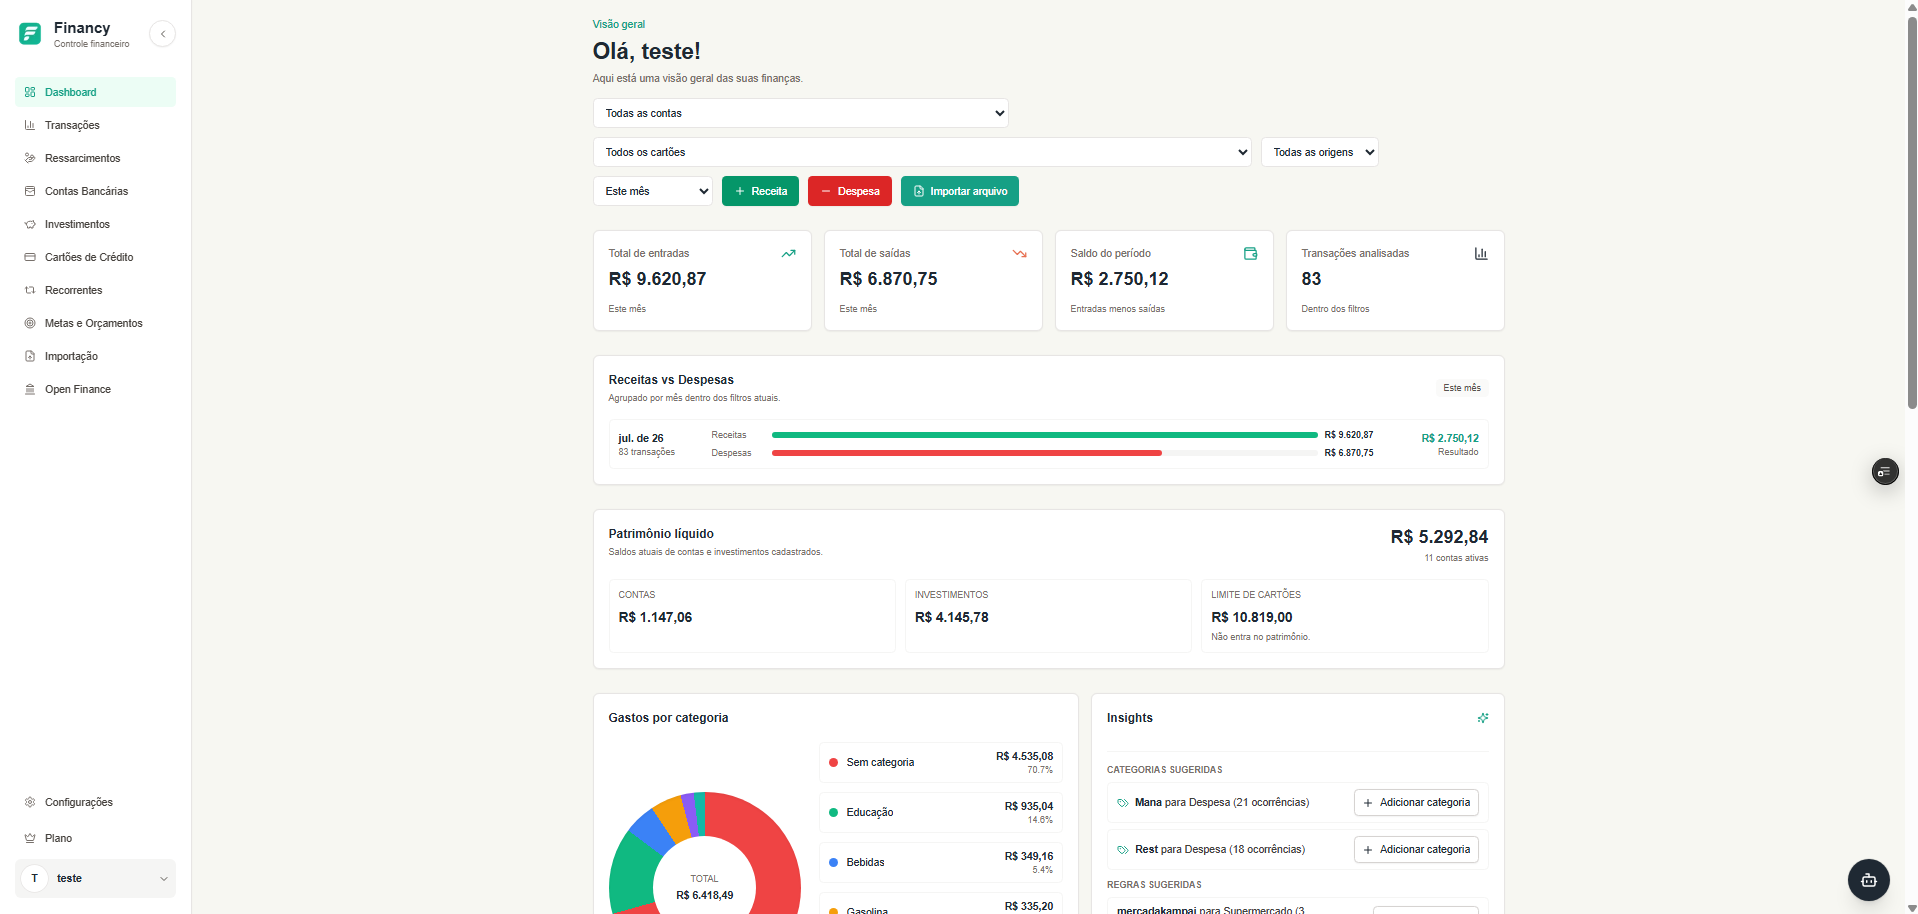
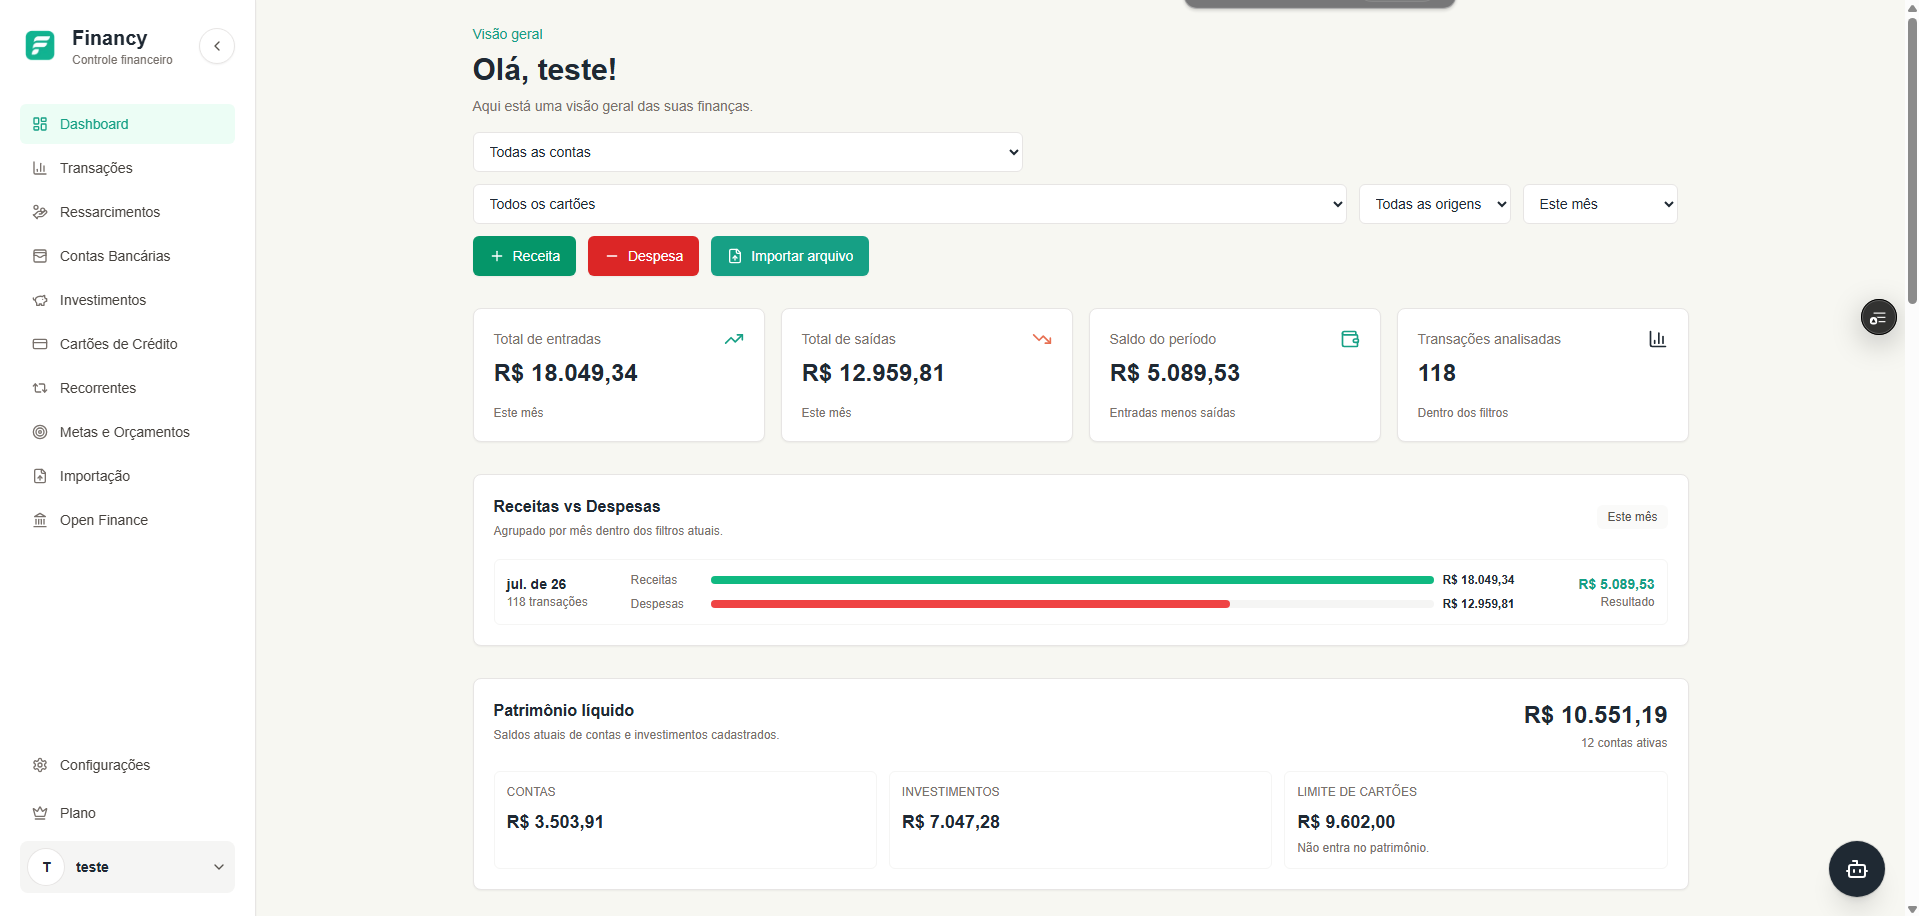
fix: refine featured project gallery

diff --git a/src/main.jsx b/src/main.jsx
@@ -50,9 +50,7 @@ const content = {
     printopsDiscoveryAlt: 'Tela de descoberta de impressoras com varredura SNMP em andamento',
     printopsAddPrinterAlt: 'Formulário de cadastro de uma nova impressora no PrintOps',
     financy: 'Plataforma SaaS para organização financeira pessoal, com transações, contas, cartões, categorias, importações e automações.',
-    financyImages: 'Navegar pelas imagens do Financy',
     financyDashboardAlt: 'Dashboard do Financy com visão geral das finanças',
-    financyAssistantAlt: 'Assistente financeiro do Financy',
     nexahelp: 'Copiloto corporativo com IA generativa para consultar procedimentos e políticas internas com fontes verificáveis.',
     nexahelpTag: 'Projeto acadêmico',
     nexahelpImages: 'Navegar pelas imagens do NexaHelp',
@@ -132,9 +130,7 @@ const content = {
     printopsDiscoveryAlt: 'PrintOps printer discovery screen with an SNMP scan in progress',
     printopsAddPrinterAlt: 'PrintOps form for registering a new printer',
     financy: 'A SaaS platform for personal finance, with transactions, accounts, cards, categories, imports and automations.',
-    financyImages: 'Navigate Financy images',
     financyDashboardAlt: 'Financy dashboard with an overview of personal finances',
-    financyAssistantAlt: 'Financy financial assistant',
     nexahelp: 'An AI-powered corporate copilot for querying internal procedures and policies with verifiable sources.',
     nexahelpTag: 'Academic project',
     nexahelpImages: 'Navigate NexaHelp images',
@@ -226,16 +222,11 @@ const nexahelpShots = [
     altKey: 'nexahelpAssistantAlt'
   }
 ]
-const financyShots = [
-  {
-    src: publicAsset('financy.png'),
-    altKey: 'financyDashboardAlt'
-  },
-  {
-    src: publicAsset('financy2.png'),
-    altKey: 'financyAssistantAlt'
-  }
-]
+const financyShot = {
+  src: publicAsset('financy.png'),
+  altKey: 'financyDashboardAlt'
+}
+const featuredProjectCount = 5
 
 function Arrow({ diagonal = false }) {
   return <span className={diagonal ? 'arrow arrow-diagonal' : 'arrow'}>↗</span>
@@ -271,7 +262,6 @@ function App() {
   const [imageFailed, setImageFailed] = useState(false)
   const [printopsShotIndex, setPrintopsShotIndex] = useState(0)
   const [nexahelpShotIndex, setNexahelpShotIndex] = useState(0)
-  const [financyShotIndex, setFinancyShotIndex] = useState(0)
   const heroRef = useRef(null)
   const projectDragRef = useRef({ active: false, axis: null, startX: 0, startY: 0, startScrollLeft: 0, moved: false })
   const t = content[language]
@@ -325,6 +315,7 @@ function App() {
 
   const startProjectDrag = (event) => {
     if (event.pointerType === 'mouse' && event.button !== 0) return
+    if (event.target.closest?.('button, a')) return
 
     const track = event.currentTarget
     projectDragRef.current = { active: true, axis: null, startX: event.clientX, startY: event.clientY, startScrollLeft: track.scrollLeft, moved: false }
@@ -425,7 +416,7 @@ function App() {
           <div className="about-content">
             <h2>{t.aboutTitle}</h2>
             <div className="about-columns"><p>{t.aboutText}</p><p>{t.aboutTextTwo}</p></div>
-            <div className="about-facts"><div><strong>02</strong><span>{t.factProjects}</span></div><div><strong>03+</strong><span>{t.factYears}</span></div><div><strong>∞</strong><span>{t.factLearning}</span></div></div>
+            <div className="about-facts"><div><strong>{String(featuredProjectCount).padStart(2, '0')}</strong><span>{t.factProjects}</span></div><div><strong>03+</strong><span>{t.factYears}</span></div><div><strong>∞</strong><span>{t.factLearning}</span></div></div>
           </div>
         </section>
 
@@ -480,15 +471,8 @@ function App() {
               </motion.article>
               <motion.article className="project-card project-accent" whileHover={{ y: -8 }} transition={{ duration: 0.25 }}>
                 <div className="project-art financy-art screenshot-art">
-                  <AnimatePresence mode="wait" initial={false}>
-                    <motion.img className={financyShotIndex === 1 ? 'project-screenshot financy-portrait' : 'project-screenshot'} key={financyShots[financyShotIndex].src} src={financyShots[financyShotIndex].src} alt={t[financyShots[financyShotIndex].altKey]} initial={{ opacity: 0, scale: 1.04 }} animate={{ opacity: 1, scale: 1 }} exit={{ opacity: 0 }} transition={{ duration: 0.28 }} />
-                  </AnimatePresence>
+                  <img className="project-screenshot" src={financyShot.src} alt={t[financyShot.altKey]} />
                   <div className="screenshot-shade" />
-                  <div className="shot-controls" aria-label={t.financyImages}>
-                    <button type="button" aria-label={t.previousImage} onClick={(event) => { event.stopPropagation(); setFinancyShotIndex((current) => (current - 1 + financyShots.length) % financyShots.length) }}>←</button>
-                    <span>{String(financyShotIndex + 1).padStart(2, '0')} / {String(financyShots.length).padStart(2, '0')}</span>
-                    <button type="button" aria-label={t.nextImage} onClick={(event) => { event.stopPropagation(); setFinancyShotIndex((current) => (current + 1) % financyShots.length) }}>→</button>
-                  </div>
                   <span className="art-index">05</span>
                 </div>
                 <div className="project-info"><div><span className="project-tag">{t.inProgress}</span><h3>Financy</h3></div><span className="project-arrow">↗</span><p>{t.financy}</p><div className="project-tech"><span>Next.js</span><span>TypeScript</span><span>PostgreSQL</span><span>Supabase</span></div></div>

diff --git a/src/styles.css b/src/styles.css
@@ -123,7 +123,6 @@ h2 { font-size: clamp(36px, 4.4vw, 62px); letter-spacing: -.065em; line-height: 
 .financy-art { background: #eef0ea; }
 .financy-art::before { display: none; }
 .financy-art .project-screenshot { object-fit: cover; object-position: center; background: #f6f7f2; }
-.financy-art .project-screenshot.financy-portrait { object-position: center; }
 .financy-art .screenshot-shade { background: linear-gradient(180deg, rgba(17,19,17,.02) 35%, rgba(17,19,17,.3) 100%); }
 .project-nexa { background: #1b202b; }
 .orbe-art { background: linear-gradient(135deg, #0e2532 0%, #112d35 100%); }
